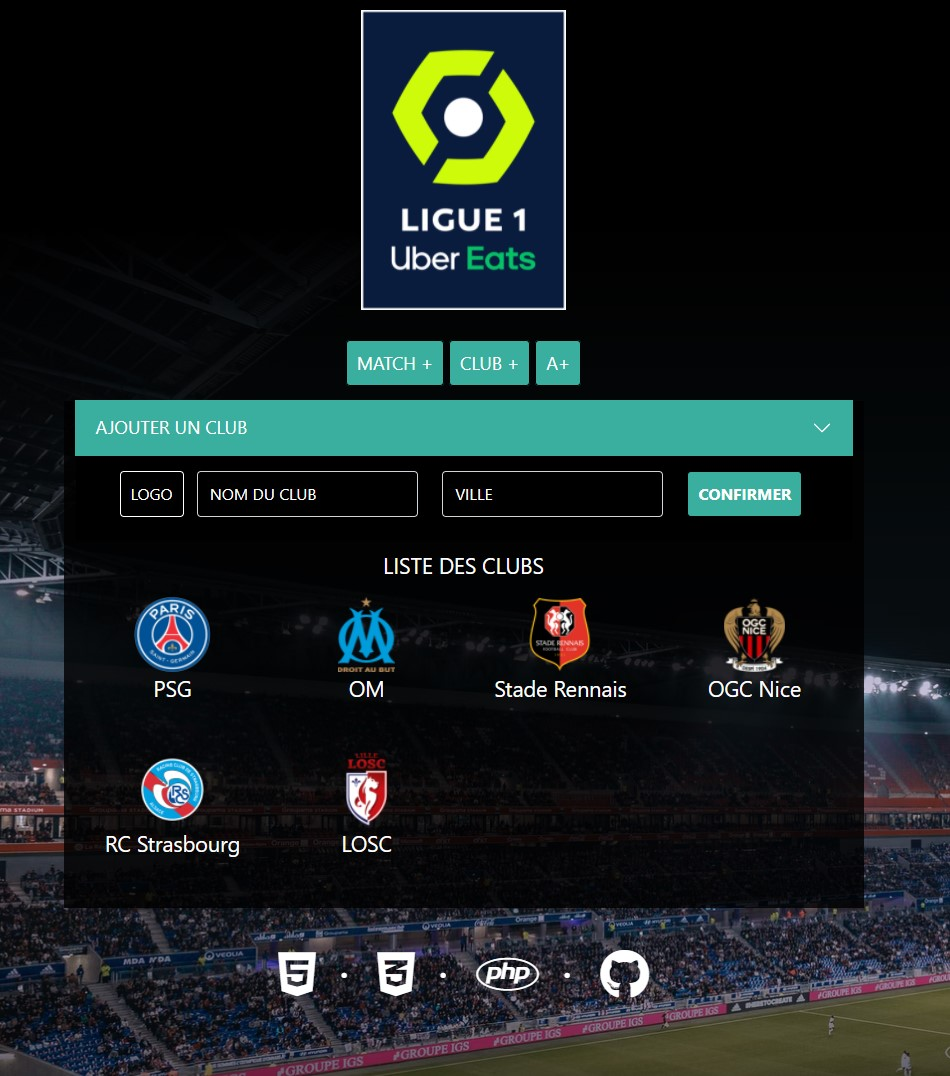
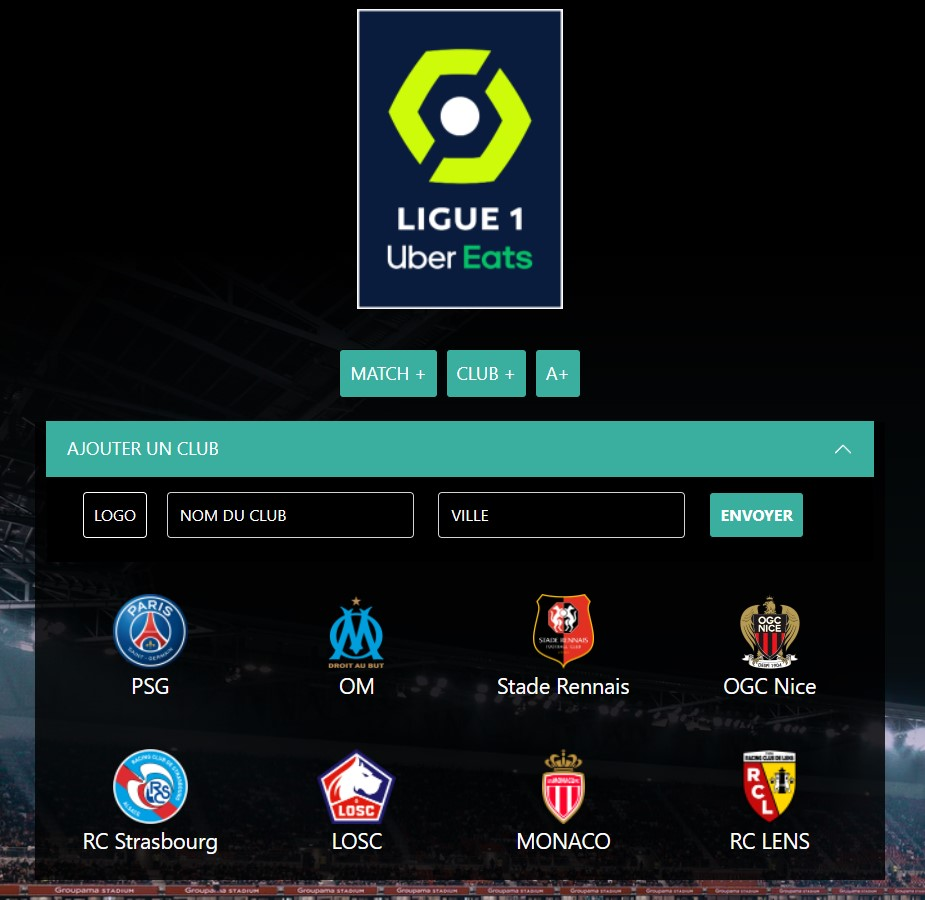
liste match / résultats club

diff --git a/css/style.css b/css/style.css
@@ -364,27 +364,32 @@ footer i[class*="fa-"] {
     border: 1px solid #000000;
 }
 
-/* details page */
+/* details club */
 
 .highlight-results-text {
     font-size: medium;
 }
 
 .carousel-inner {
-    border: 1px solid #3AAF9F;
+    border-radius: 1%;
 }
 
+.carousel-item img {
+    height: 340px;
+}
 
 .details-point {
+    color: #3AAF9F;
     font-weight: bold;
-    font-size: xx-large;
+    font-size: xxx-large;
 }
 
 .details-point-text {
-    color: #3AAF9F;
+    font-size: large;
     font-weight: bold;
     margin-top: -20px;
     padding-left: 25%;
+    opacity: 50%;
 }
 
 /* ajout match page */
@@ -433,6 +438,11 @@ input:required {
 .addmatch-btn {
     background-color: unset;
     border: unset;
+    padding-left: 10px;
+}
+
+.accordion-body .row {
+    margin-left: unset;
 }
 
 /* ajout club page */

diff --git a/ctler/details.php b/ctler/details.php
@@ -7,8 +7,9 @@ if(!isset($_GET["club"]) || !isset($_GET["show"]) || !isset($_GET["rank"])) {
     header('Location: ./index.php');
 }
 
-$clubDetails = detailsClub($pdo, $_GET["club"]);
+$clubHighlight = clubHighlight($pdo, $_GET["club"]);
 
+#var_dump($clubHighlight);
 ?>
 
 <section>
@@ -19,10 +20,7 @@ $clubDetails = detailsClub($pdo, $_GET["club"]);
                     <div class="accordion-item">
                         <h2 class="accordion-header" id="flush-headingOne">
                         <button class="accordion-button collapsed" type="button" data-bs-toggle="collapse" data-bs-target="#flush-collapseOne" aria-expanded="false" aria-controls="flush-collapseOne">
-                            <img src="assets/logo/<?php echo $clubDetails["id_club"].'.'.$clubDetails["logo"]?>" height="50px" class="pe-2">
-                            <span class="details-club-header">Resultats <?php echo $clubDetails["nom_club"] ?></span>
-                            <span class="details-club-header">&nbsp;-&nbsp;<?php echo $clubDetails["point"] ?></span>
-                            <span class="details-club-header">pts</span>
+                            <span class="details-club-header">Resultats <?php echo $clubHighlight["nom_club"] ?></span>
                         </button>
                         </h2>
                         <div id="flush-collapseOne" class="accordion-collapse collapse show" aria-labelledby="flush-headingOne" data-bs-parent="#accordionRank">
@@ -30,23 +28,25 @@ $clubDetails = detailsClub($pdo, $_GET["club"]);
                                 <div class="container">
                                     <div class="row">
                                         <div class="col-4 text-start">
-                                            <div class="row pt-4">
+                                            <div class="logo-highlight text-center mb-3"><img src="assets/logo/<?php echo $clubHighlight["id_club"].'.'.$clubHighlight["logo"]?>" height="70px" class="pe-2"></div>
+                                            <hr class="ms-3 me-4">
+                                            <div class="row ms-4">
                                                 <div class="col-6 highlight-point">
-                                                    <div class="details-point"><?php echo $clubDetails["point"] ?></div>
+                                                    <div class="details-point"><?php echo $clubHighlight["total_pts"] ?></div>
                                                     <div class="details-point-text">pts</div>
                                                 </div>
                                                 <div class="col-6 highlight-point">
-                                                    <div class="details-point pt-5">29</div>
+                                                    <div class="details-point pt-5"><?php echo $clubHighlight["total_mj"] ?></div>
                                                     <div class="details-point-text">joués</div>
                                                 </div>
                                             </div>
-                                            <div class="row pt-2">
+                                            <div class="row ms-2">
                                                 <div class="col-6 highlight-point">
-                                                    <div class="details-point">20</div>
+                                                    <div class="details-point"><?php echo $clubHighlight["mg"] ?></div>
                                                     <div class="details-point-text">gagnés</div>
                                                 </div>
                                                 <div class="col-6 highlight-point">
-                                                    <div class="details-point pt-5">59</div>
+                                                    <div class="details-point pt-5"><?php echo $clubHighlight["bp"] ?></div>
                                                     <div class="details-point-text">but</div>
                                                 </div>
                                             </div>
@@ -54,14 +54,15 @@ $clubDetails = detailsClub($pdo, $_GET["club"]);
                                         <div class="col-8">
                                             <div id="carouselExampleSlidesOnly" class="carousel slide" data-bs-ride="carousel">
                                                 <div class="carousel-inner">
+                                                    <?php $picture = clubPictures($clubHighlight["ville_club"]) ?>
                                                     <div class="carousel-item active">
-                                                    <img src="https://photos.madeinparisiens.com/ligue-1/2022/zoom/l1-20220320140500-3337.jpg" height="75%" class="d-block w-100" alt="...">
+                                                        <img src="./assets/match/<?php echo $picture[0]; ?>" height="75%" class="d-block w-100" alt="...">
                                                     </div>
                                                     <div class="carousel-item">
-                                                    <img src="https://photos.madeinparisiens.com/ligue-1/2022/zoom/l1-20220320140442-9645.jpg" class="d-block w-100" alt="...">
+                                                        <img src="./assets/match/<?php echo $picture[1]; ?>" class="d-block w-100" alt="...">
                                                     </div>
                                                     <div class="carousel-item">
-                                                    <img src="https://photos.madeinparisiens.com/ligue-1/2022/zoom/l1-20220320140509-3209.jpg" class="d-block w-100" alt="...">
+                                                        <img src="./assets/match/<?php echo $picture[2]; ?>" class="d-block w-100" alt="...">
                                                     </div>
                                                 </div>
                                             </div> 
@@ -72,20 +73,6 @@ $clubDetails = detailsClub($pdo, $_GET["club"]);
                         </div>
                     </div>
                 </div>
-            </div>
-            <!-- Header Rank -->
-            <div class="row class-top">
-                <div class="col-auto">&nbsp&nbsp</div>
-                <div class="col-1 rank-logo"></div>
-                <div class="col-2 rank-club">CLUB</div>
-                <div class="col-1 rank-matchPlay">MJ</div>
-                <div class="col-1 rank-win">G</div>
-                <div class="col-1 rank-equal">N</div>
-                <div class="col-1 rank-lost">P</div>
-                <div class="col-1 goal-for">BP</div>
-                <div class="col-1 goal-against">BC</div>
-                <div class="col-1 rank-diff">DB</div>
-                <div class="col-1">Pts</div>
             </div>
         </div>
     </article>

diff --git a/modele/functions.php b/modele/functions.php
@@ -2,7 +2,7 @@
 
 function getClub($pdo) {
 
-    #Create SQL request to db to get overall ranking
+    # Create SQL request to get all clubs
     $requete = "SELECT * FROM club ORDER BY id_club ASC;";
     $stmt = $pdo->prepare($requete);
     $stmt->execute();
@@ -11,14 +11,14 @@ function getClub($pdo) {
     return $clubs;
 }
 
-function getClubResults($pdo) {
+function getClassement($pdo) {
 
-    #Create SQL request to db to get overall ranking
+    # Create SQL request to get overall ranking
     $requete = "SELECT c.id_club, nom_club, logo, SUM(IFNULL(mj, 0)) total_mj, SUM(IFNULL(mg, 0)) mg , SUM(IFNULL(mn, 0)) mn, SUM(IFNULL(mp, 0)) mp, SUM(IFNULL(bp, 0)) bp, SUM(IFNULL(bc, 0)) bc, SUM(IFNULL(dp, 0)) db, SUM(IFNULL(mg*3, 0)) + SUM(IFNULL(mn*1, 0)) total_pts 
-    FROM `club` c LEFT JOIN stats s ON c.id_club = s.id_club GROUP BY c.id_club 
-    ORDER BY total_pts DESC, mj DESC, db DESC;
-    " ;
-
+    FROM `club` c 
+    LEFT JOIN stats s ON c.id_club = s.id_club 
+    GROUP BY c.id_club 
+    ORDER BY total_pts DESC, mj DESC, db DESC;";
     $stmt = $pdo->prepare($requete);
     $stmt->execute();
     $clubres = $stmt->fetchAll();
@@ -26,14 +26,33 @@ function getClubResults($pdo) {
     return $clubres;
 }
 
-function detailsClub($pdo, $idclub) {
+function clubHighlight($pdo, $idclub) {
 
-    $requete = "SELECT * FROM `club` c JOIN results r ON c.id_club = r.id_club WHERE C.id_club = :idclub";
+    # Create SQL request to get specific club highlight results
+    $requete = "SELECT c.id_club, nom_club, logo, ville_club, SUM(IFNULL(mj, 0)) total_mj, SUM(IFNULL(mg, 0)) mg, SUM(IFNULL(mg*3, 0)) + SUM(IFNULL(mn*1, 0)) total_pts, SUM(IFNULL(bp, 0)) bp 
+    FROM club C 
+    LEFT JOIN stats S ON C.id_club = S.id_club 
+    WHERE C.id_club = :idclub";
     $stmt = $pdo->prepare($requete);
     $stmt->execute([':idclub' => $idclub]);
-    $clubDetails = $stmt->fetch();  
+    $clubHighlight = $stmt->fetch();
     
-    return $clubDetails;  
+    return $clubHighlight;  
+}
+
+function clubPictures($clubville) {
+
+    $clubville = strtolower($clubville);
+    $images = preg_grep('/\b(\w*'.preg_quote($clubville).'\w*)\b/', scandir("./assets/match/"));
+    if(!$images){
+        #$images = ['01.monaco_psg.jpg', '01.monaco_psg.jpg', '01.monaco_psg.jpg'];
+        $clubville = 'defaut';
+        $images = preg_grep('/\b(\w*'.preg_quote($clubville).'\w*)\b/', scandir("./assets/match/"));
+    }
+
+    shuffle($images);
+
+    return $images;
 }
 
 function actionAddclub($pdo, $clubname, $clubcity, $file) {
@@ -50,10 +69,10 @@ function actionAddclub($pdo, $clubname, $clubcity, $file) {
 
     // Check file exist -> note that file can be empty if the size is over MAXPOST php.ini 
     if (empty($file["size"])) {
-        throw new Exception('Vous devez ajouter un logo (jpg/png/jpeg - 1Mo Max)');
+        throw new Exception('Vous devez ajouter un logo (jpg/png/jpeg - 1Mo max)');
     // Then the image size        
     } elseif ($file["size"] > 1000000) { 
-        throw new Exception('Fichier trop volumineux - 1Mo Max');
+        throw new Exception('Fichier trop volumineux - 1Mo max');
     }
 
     // Check file type (only jpg/png.jpeg)
@@ -241,6 +260,29 @@ function actionLogin($pdo, $email, $pass) {
         header("Location:./index.php");
     } 
 }
+
+function getMatch($pdo) {
+
+    #Create SQL request to db to get all matchas
+    $requete = "SELECT * FROM matchs ORDER BY id_match ASC;";
+    $stmt = $pdo->prepare($requete);
+    $stmt->execute();
+    $matchs = $stmt->fetchAll();
+
+    return $matchs;
+}
+
+function detailsMatch($pdo, $idclub, $idmatch) {
+
+    $requete = "SELECT * FROM club C JOIN stats S ON C.id_club = S.id_club WHERE S.id_club = :id_club AND S.id_match = :id_match;";
+    $stmt = $pdo->prepare($requete);
+    $stmt->execute([':id_club' => $idclub, ':id_match' => $idmatch]);
+    $detailsMatch = $stmt->fetch();
+    
+    return $detailsMatch;  
+}
+
+
 
 function actionLogout() {
     

diff --git a/ctler/add_match.php b/ctler/add_match.php
@@ -9,6 +9,7 @@ if(!isset($_GET["show"])) {
 }
 
 $clubs = getClub($pdo);
+$matchs = getMatch($pdo);
 
 ?>
 <section>
@@ -22,7 +23,7 @@ $clubs = getClub($pdo);
                             <span class="details-club-header">AJOUTER UN MATCH</span>
                         </button>
                         </h2>
-                        <div id="flush-collapseOne" class="accordion-collapse collapse show" aria-labelledby="flush-headingOne" data-bs-parent="#accordionRank">
+                        <div id="flush-collapseOne" class="accordion-collapse collapse" aria-labelledby="flush-headingOne" data-bs-parent="#accordionRank">
                             <div class="accordion-body addmatch">
                                 <form method="post" action="index.php?action=addmatch&show=addmatch">
                                     <div class="container text-center">
@@ -41,11 +42,8 @@ $clubs = getClub($pdo);
                                                     <input required type="number" id="club-home-goal" name="club-home-goal">
                                                 </div>
                                             </div>
-                                            <div class="col-sd-12 col-md-2 mt-5">
-                                                <span>
-
+                                            <div class="col-sd-12 col-md-2 align-self-end">
                                                 <button type="submit" class="addmatch-btn"><img src="./assets/img/soccer.png" alt="" height="75px" class="spinner-ball"></button>
-                                                </span>
                                             </div>
                                             <div class="col-sd-12 col-md-5">
                                                 <div class="text-ville mb-3">
@@ -61,6 +59,7 @@ $clubs = getClub($pdo);
                                                     <input required type="number" id="club-out-goal" name="club-out-goal">
                                                 </div>
                                             </div>
+                                            <hr>
                                         </div>
                                     </div>
                                 </form>
@@ -69,6 +68,20 @@ $clubs = getClub($pdo);
                     </div>
                 </div>
             </div>
+            <?php foreach($matchs as $match) { ?>
+                <div class="row text-center mt-4 mb-4">
+                    <?php $detailsMatchHome = detailsMatch($pdo, $match["idclub_home"], $match["id_match"]);?>
+                        <div class="col-4"><img src="assets/logo/<?php echo $detailsMatchHome["id_club"].'.'.$detailsMatchHome["logo"]?>" height="60px">
+                        </div>
+                        <div class="col-1 align-self-center"><?php echo $detailsMatchHome["bp"]?></div>
+                        <div class="col-2 align-self-center">-</div>
+                    <?php $detailsMatchOut = detailsMatch($pdo, $match["idclub_out"], $match["id_match"]); ?>
+                        <div class="col-1 align-self-center"><?php echo $detailsMatchOut["bp"]?></div>
+                        <div class="col-4"><img src="assets/logo/<?php echo $detailsMatchOut["id_club"].'.'.$detailsMatchOut["logo"]?>" height="60px">
+                        </div>
+                </div>
+            <?php } ?>
+            
         </div>
     </article>
 </section>

diff --git a/ctler/add_club.php b/ctler/add_club.php
@@ -16,7 +16,7 @@ $clubs = getClub($pdo);
                             <span class="details-club-header">AJOUTER UN CLUB</span>
                         </button>
                         </h2>
-                        <div id="flush-collapseOne" class="accordion-collapse collapse show" aria-labelledby="flush-headingOne" data-bs-parent="#accordionRank">
+                        <div id="flush-collapseOne" class="accordion-collapse collapse" aria-labelledby="flush-headingOne" data-bs-parent="#accordionRank">
                             <div class="accordion-body addclub">
                                 <form action="index.php?action=addclub&show=addclub" method="post" enctype="multipart/form-data">
                                     <div class="row ps-4">
@@ -44,13 +44,10 @@ $clubs = getClub($pdo);
             </div>
             <?php if(!empty($clubs)) { ?>
             <div class="container">
-                <div class="row club-list text-center mb-3">
-                    <div class="col-12">LISTE DES CLUBS</div>
-                </div>
                 <div class="row text-center">
                 <?php foreach($clubs as $club) {
                     ?>
-                    <div class="col-sm-6 col-md-3 mb-5">
+                    <div class="col-sm-6 col-md-3 mt-4 mb-4">
                         <img src="assets/logo/<?php echo $club["id_club"].'.'.$club["logo"]?>" height="75px">
                         <div class="logo-text"><?php echo $club["nom_club"]?></div>
                     </div>

diff --git a/ctler/main.php b/ctler/main.php
@@ -2,7 +2,7 @@
 
 # AJOUTER UN CHECK POUR EVITER LE CALL DE LA PAGE EN DIRECT
 
-$clubres = getClubResults($pdo);
+$clubres = getClassement($pdo);
    
 ?>
 <section>

diff --git a/README.md b/README.md
@@ -7,8 +7,6 @@ Base de donnée : Oui
 
 TO-DO
 
-- [ ] Ajouter la liste des matchs sur la page "Ajouter un match"
-- [ ] Terminé la page détail du club (clic sur le club depuis le classement)
 - [ ] Vérifier les contraintes de clé étrangère
 - [ ] Vérifier que le site soit complétement responsive
 - [ ] Ajuster les couleurs
@@ -38,6 +36,8 @@ COMPLETED
 - [x] Stocker les données dans une base de donnée
 - [x] Afficher le classement sur la page d'acceuil avec les résultats enregistrés par l'utilisateur
 - [x] Affichier une erreur si aucun logo n'est chargé
+- [x] Ajouter la liste des matchs sur la page "Ajouter un match"
+- [x] Terminer la page détail du club (clic sur le club depuis le classement)
 
 ## DEMO
 https://foreach.alwaysdata.net/projet-ligue-1/
@@ -73,3 +73,7 @@ https://foreach.alwaysdata.net/projet-ligue-1/
 ## AJOUT CLUB (screenshot)
 
 ![Ajout Club](/assets/screen/08.ajouterclub.jpg)
+
+## RESULTATS CLUB (screenshot)
+
+![Ajout Club](/assets/screen/09.resultatsclub.jpg)
